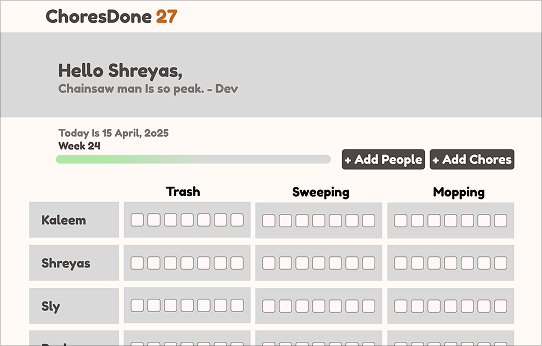
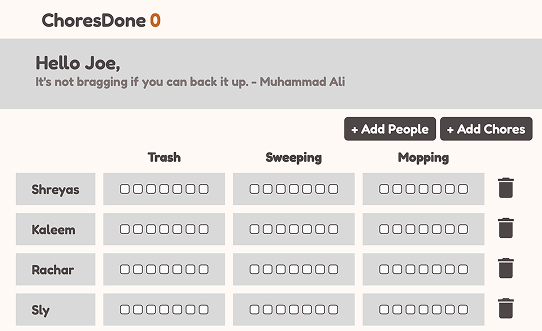
Made changes to index.html and style.css.
Scaled the webpage down. Added back the preview image

diff --git a/index.html b/index.html
@@ -26,7 +26,7 @@
                     <button id="get-started" class="get-started">Get Started</button>
                 </div>
             </div>
-            <!-- <img class="figmaexport" src="images/figmaexport.jpg" alt=""> -->
+            <img class="figmaexport" src="images/figmaexport.jpg">
         </div>
         <div class="faq-container">
             <h1 class="heading">FAQ (Frequently Asked Questions)</h1>

diff --git a/styles/style.css b/styles/style.css
@@ -4,6 +4,12 @@
 body {
     background-color: #FFF9F5;
 }
+html { /*Scaling down hack from Stack Overflow, https://stackoverflow.com/questions/9036927/i-need-to-scale-an-entire-website-down-to-80*/
+    zoom: 0.8;
+    -moz-transform: scale(1);
+    -webkit-transform: scale(1);
+    transform: scale(1);
+}
 .navbar {
     display: flex;
     width: 100%;
